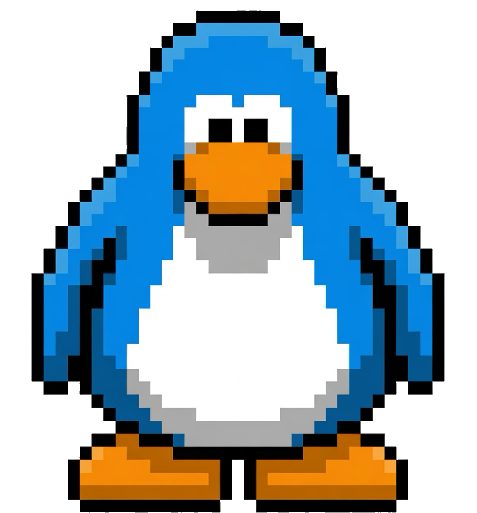
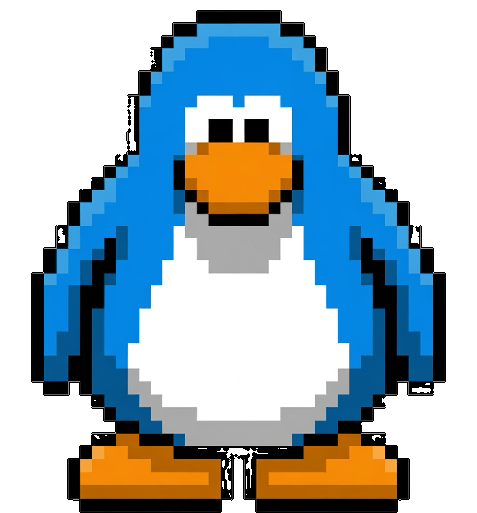
fix: consistent penguin outlines for side, back, and walk (#115)
* fix: consistent penguin outlines for side, back, and walk plates

Regenerate side and back idle/walk with Grok Imagine from the front idle
so profiles share the same chunky Club Penguin look. Pipeline keys magenta
backgrounds, repairs exterior outlines, and pads every facing onto the
shared 477×513 canvas. Fixes side torso seam artifacts, thin back outlines,
and body-size drift across facings.

* fix: side walk eyes, feet-together plant, opposite back leg

Match side-1/side-2 eyes to the idle profile; make side-2 a feet-together
plant frame instead of a second raised foot; set up-2 to a horizontal
mirror of up-1 so back walk alternates the other raised leg.

* fix: side-2 opposite raised foot for alternating walk

CodeRabbit: side walk cycles frames 1↔2, so side-2 must raise the other
foot rather than plant feet together (avoids one-foot hop/slide). Keep
matched profile eye from idle.

diff --git a/src/appVersion.ts b/src/appVersion.ts
@@ -5,4 +5,4 @@
  * feature ships — patch for fixes, minor for features, major for breaking
  * changes. Keep both files in sync.
  */
-export const APP_VERSION = '1.23.0';
+export const APP_VERSION = '1.23.3';

diff --git a/scripts/reference/penguin/README.md b/scripts/reference/penguin/README.md
@@ -22,20 +22,33 @@ When the player stops, scenes set texture frame **0** — standing idle, not a
 mid-walk hop. Walk anims cycle frames **1↔2** so feet truly alternate (never
 plant + one-foot hop, which reads as sliding on one foot).
 
-## Back walk depth (up-1 / up-2)
+## Side facing (v4)
 
-Back-facing walk plates step **away from the camera**: the raised foot sits
-**in front of** the penguin (partially hidden under the body), and the planted
-foot is fully visible at the bottom (toward the camera). Sources:
-`imagine-back-walk-v2/` (up-2 from Imagine; up-1 is a horizontal mirror).
+Side idle + walk plates regenerated with Grok Imagine from the front idle
+(`down-0`) so the profile matches the same chunky Club Penguin pixel look
+(white eye + black pupil, short beak, flippers by the body, clean torso with
+no diagonal seam artifacts). Sources under `imagine-side-v4/`; game inputs
+`poses/side-{0,1,2}.png`.
 
-## Side facing (v3)
+Side walk frames (cycle **1↔2** so feet alternate — same rule as front/back):
 
-Side idle + walk plates were regenerated with Grok Imagine using the current
-front (`down-*`) and back (`up-*`) game sprites as style references so the
-profile matches the same chunky Club Penguin pixel look (white eye + black
-pupil, short beak, flippers by the body). Sources live under
-`imagine-side-v3/`; game inputs under `poses/side-{0,1,2}.png`.
+| Frame | Pose |
+|-------|------|
+| side-0 | idle — both feet planted |
+| side-1 | mid-stride — front foot raised |
+| side-2 | mid-stride — rear foot raised (opposite leg) |
+
+Eyes match across side-0 / side-1 / side-2.
+
+## Back facing (v3)
+
+Back idle + walk plates regenerated from the same front idle anchor. Walk
+steps **away from the camera** (raised foot partially under the body; planted
+foot toward the camera). Sources under `imagine-back-v3/`. Pipeline always
+runs `repairExternalOutline` so every facing shares a clean 1px exterior rim.
+
+`up-2` is a horizontal mirror of `up-1` so the walk cycle truly alternates
+the other raised leg.
 
 ## Wave (Imagine)
 
